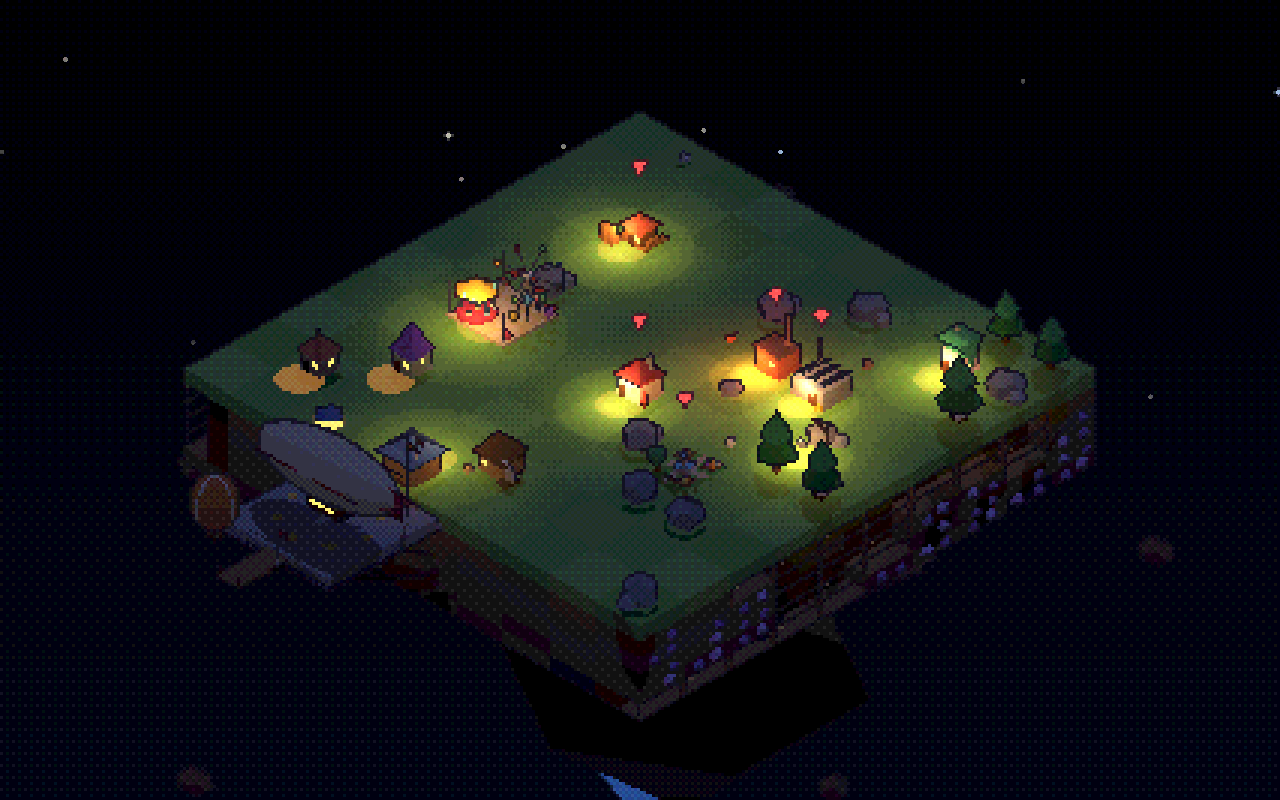
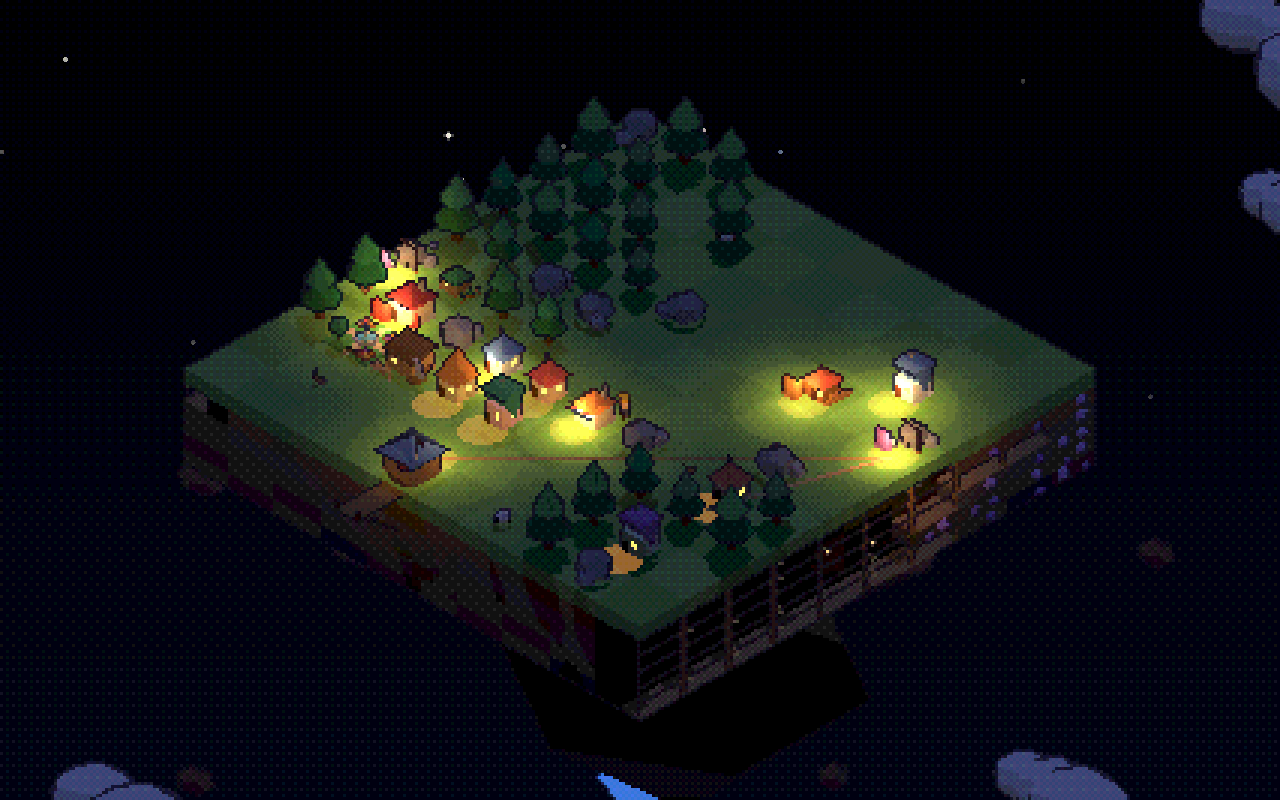
断面図の坑道を見やすく・島を広げたとき飛行船も移動・スクリーンショット更新
Claude-Session: https://claude.ai/code/session_01Uj57nGQSB9VBn89LNiyo9N

diff --git a/game.js b/game.js
@@ -345,8 +345,8 @@ const UG_FACES = ['e', 'w'];
 const strataMesh = new THREE.InstancedMesh(new THREE.BoxGeometry(1,1,1), MT(0xffffff), 800);
 strataMesh.receiveShadow = true; strataMesh.count = 0; scene.add(strataMesh);
 const oreMesh = new THREE.InstancedMesh(G.dod, MT(0xffffff), 400); oreMesh.count = 0; scene.add(oreMesh);
-const beamMesh = new THREE.InstancedMesh(G.box, MT(0x8a5a2e), 600); beamMesh.count = 0; scene.add(beamMesh);
-const lampMesh = new THREE.InstancedMesh(new THREE.BoxGeometry(0.06,0.07,0.06), new THREE.MeshBasicMaterial({color:0xffd080}), 160); lampMesh.count = 0; scene.add(lampMesh);
+const beamMesh = new THREE.InstancedMesh(G.box, MT(0xb07838), 600); beamMesh.count = 0; scene.add(beamMesh);
+const lampMesh = new THREE.InstancedMesh(new THREE.BoxGeometry(0.08,0.09,0.08), new THREE.MeshBasicMaterial({color:0xffe090}), 160); lampMesh.count = 0; scene.add(lampMesh);
 const ROCK_COL = [0x8a5a3a, 0x7a6252, 0x6e5a4c, 0x655246, 0x5c4a40, 0x544438, 0x4c3e34, 0x463a30];
 let UG = null, ugDug = -1;
 // 掘り進める順番：入口（上段の中央）から、横に長い坑道を中心に広がっていく
@@ -408,9 +408,9 @@ function updateStrata(){
         if (dug.has(r*F.cols.length + ci)){
           // 掘った坑道：奥の壁だけ残してくぼませ、支柱とランタンを立てる
           const P0 = facePt(F, c.u, 0.75, y), [ax, az] = along(1, 0.5);
-          box(P0.x, P0.y, P0.z, ax, 0.3, az, 0x5a3c26, (hh-0.5)*0.05);
+          box(P0.x, P0.y, P0.z, ax, 0.3, az, 0x34221a, (hh-0.5)*0.04);
           const below = r+1 < UG.rows && !dug.has((r+1)*F.cols.length + ci);
-          if (below || r+1 >= UG.rows){ const Pf = facePt(F, c.u, 0.25, y - 0.14), [fx, fz] = along(1, 0.5); box(Pf.x, Pf.y, Pf.z, fx, 0.02, fz, 0x8a6a44); }
+          if (below || r+1 >= UG.rows){ const Pf = facePt(F, c.u, 0.25, y - 0.14), [fx, fz] = along(1, 0.5); box(Pf.x, Pf.y, Pf.z, fx, 0.02, fz, 0xb08a58); }
           for (const du of [-0.46, 0.46]){ const Pb = facePt(F, c.u + du*(F.t[0]+F.t[1]), 0.06, y), [bx, bz] = along(0.05, 0.05); beam(Pb.x, Pb.y, Pb.z, bx, 0.3, bz); }
           const Pl = facePt(F, c.u, 0.06, y + 0.135), [lx, lz] = along(1, 0.05); beam(Pl.x, Pl.y, Pl.z, lx, 0.03, lz);
           if (hh < 0.45 && nl < 160){ const Pm = facePt(F, c.u + 0.3*(F.t[0]+F.t[1]), 0.1, y + 0.07); m4.makeTranslation(Pm.x, Pm.y, Pm.z); lampMesh.setMatrixAt(nl++, m4); }
@@ -2221,7 +2221,7 @@ function expandIsland(dir){
     S.cells[i] = r < 0.35 ? {t:'tree', hp:P.treeHP, r:Math.random()} : r < 0.43 ? {t:'rock', hp:P.rockHP, r:Math.random()} : {t:'grass', r:Math.random()};
     setCellMesh(i); if (CM[i]) CM[i].userData.pop = 0.4;
   }
-  updateTiles(); sfx('build'); shake(0.12);
+  updateTiles(); if (S.airport) buildAirship(true); sfx('build'); shake(0.12);
   story('島を広げた','Expanded the island'); toast(L('島が広がった！','The island grew!'),'good');
 }
 
